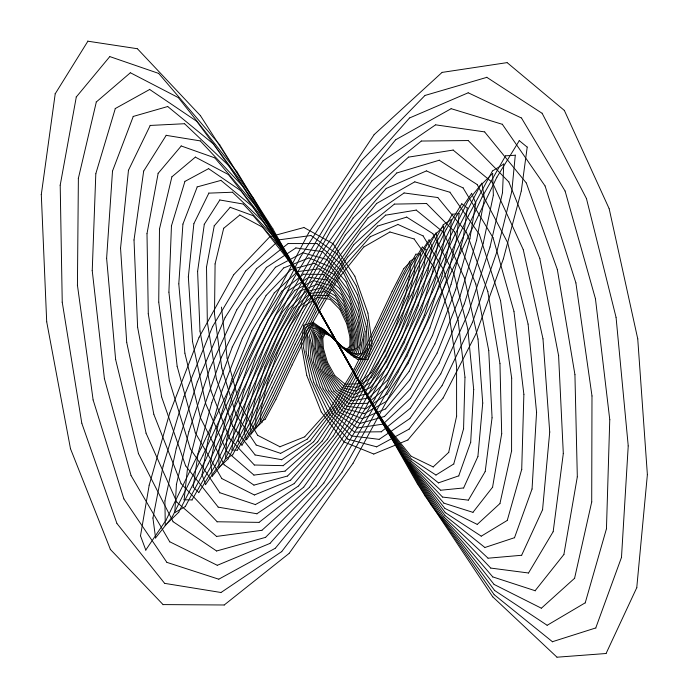
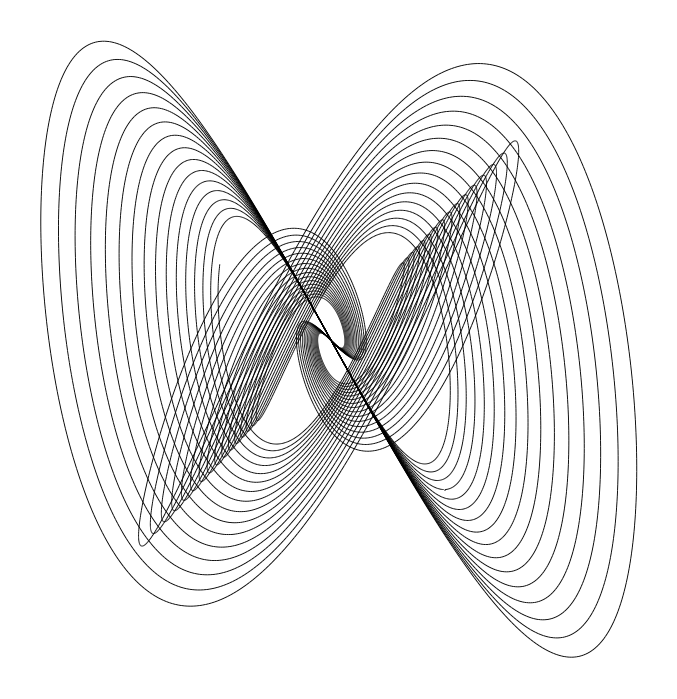
feat(harmonograph): increase sampling to 20k points for smooth curves

Changed region(s): [[0.062, 0.0601, 0.9616, 0.9614]]

diff --git a/sketches/vsketch/harmonograph/sketch_harmonograph.py b/sketches/vsketch/harmonograph/sketch_harmonograph.py
@@ -47,8 +47,8 @@ class HarmonographSketch(vsketch.SketchClass):
     amplitude_a = vsketch.Param(5.0)
     amplitude_b = vsketch.Param(5.0)    
     damping = vsketch.Param(0.01)
-    samples = vsketch.Param(1000)
-    dt = vsketch.Param(0.1)
+    samples = vsketch.Param(20000)
+    dt = vsketch.Param(0.005)
 
     def harmonograph_point(self, t: float) -> tuple[float, float]:
         x = (
